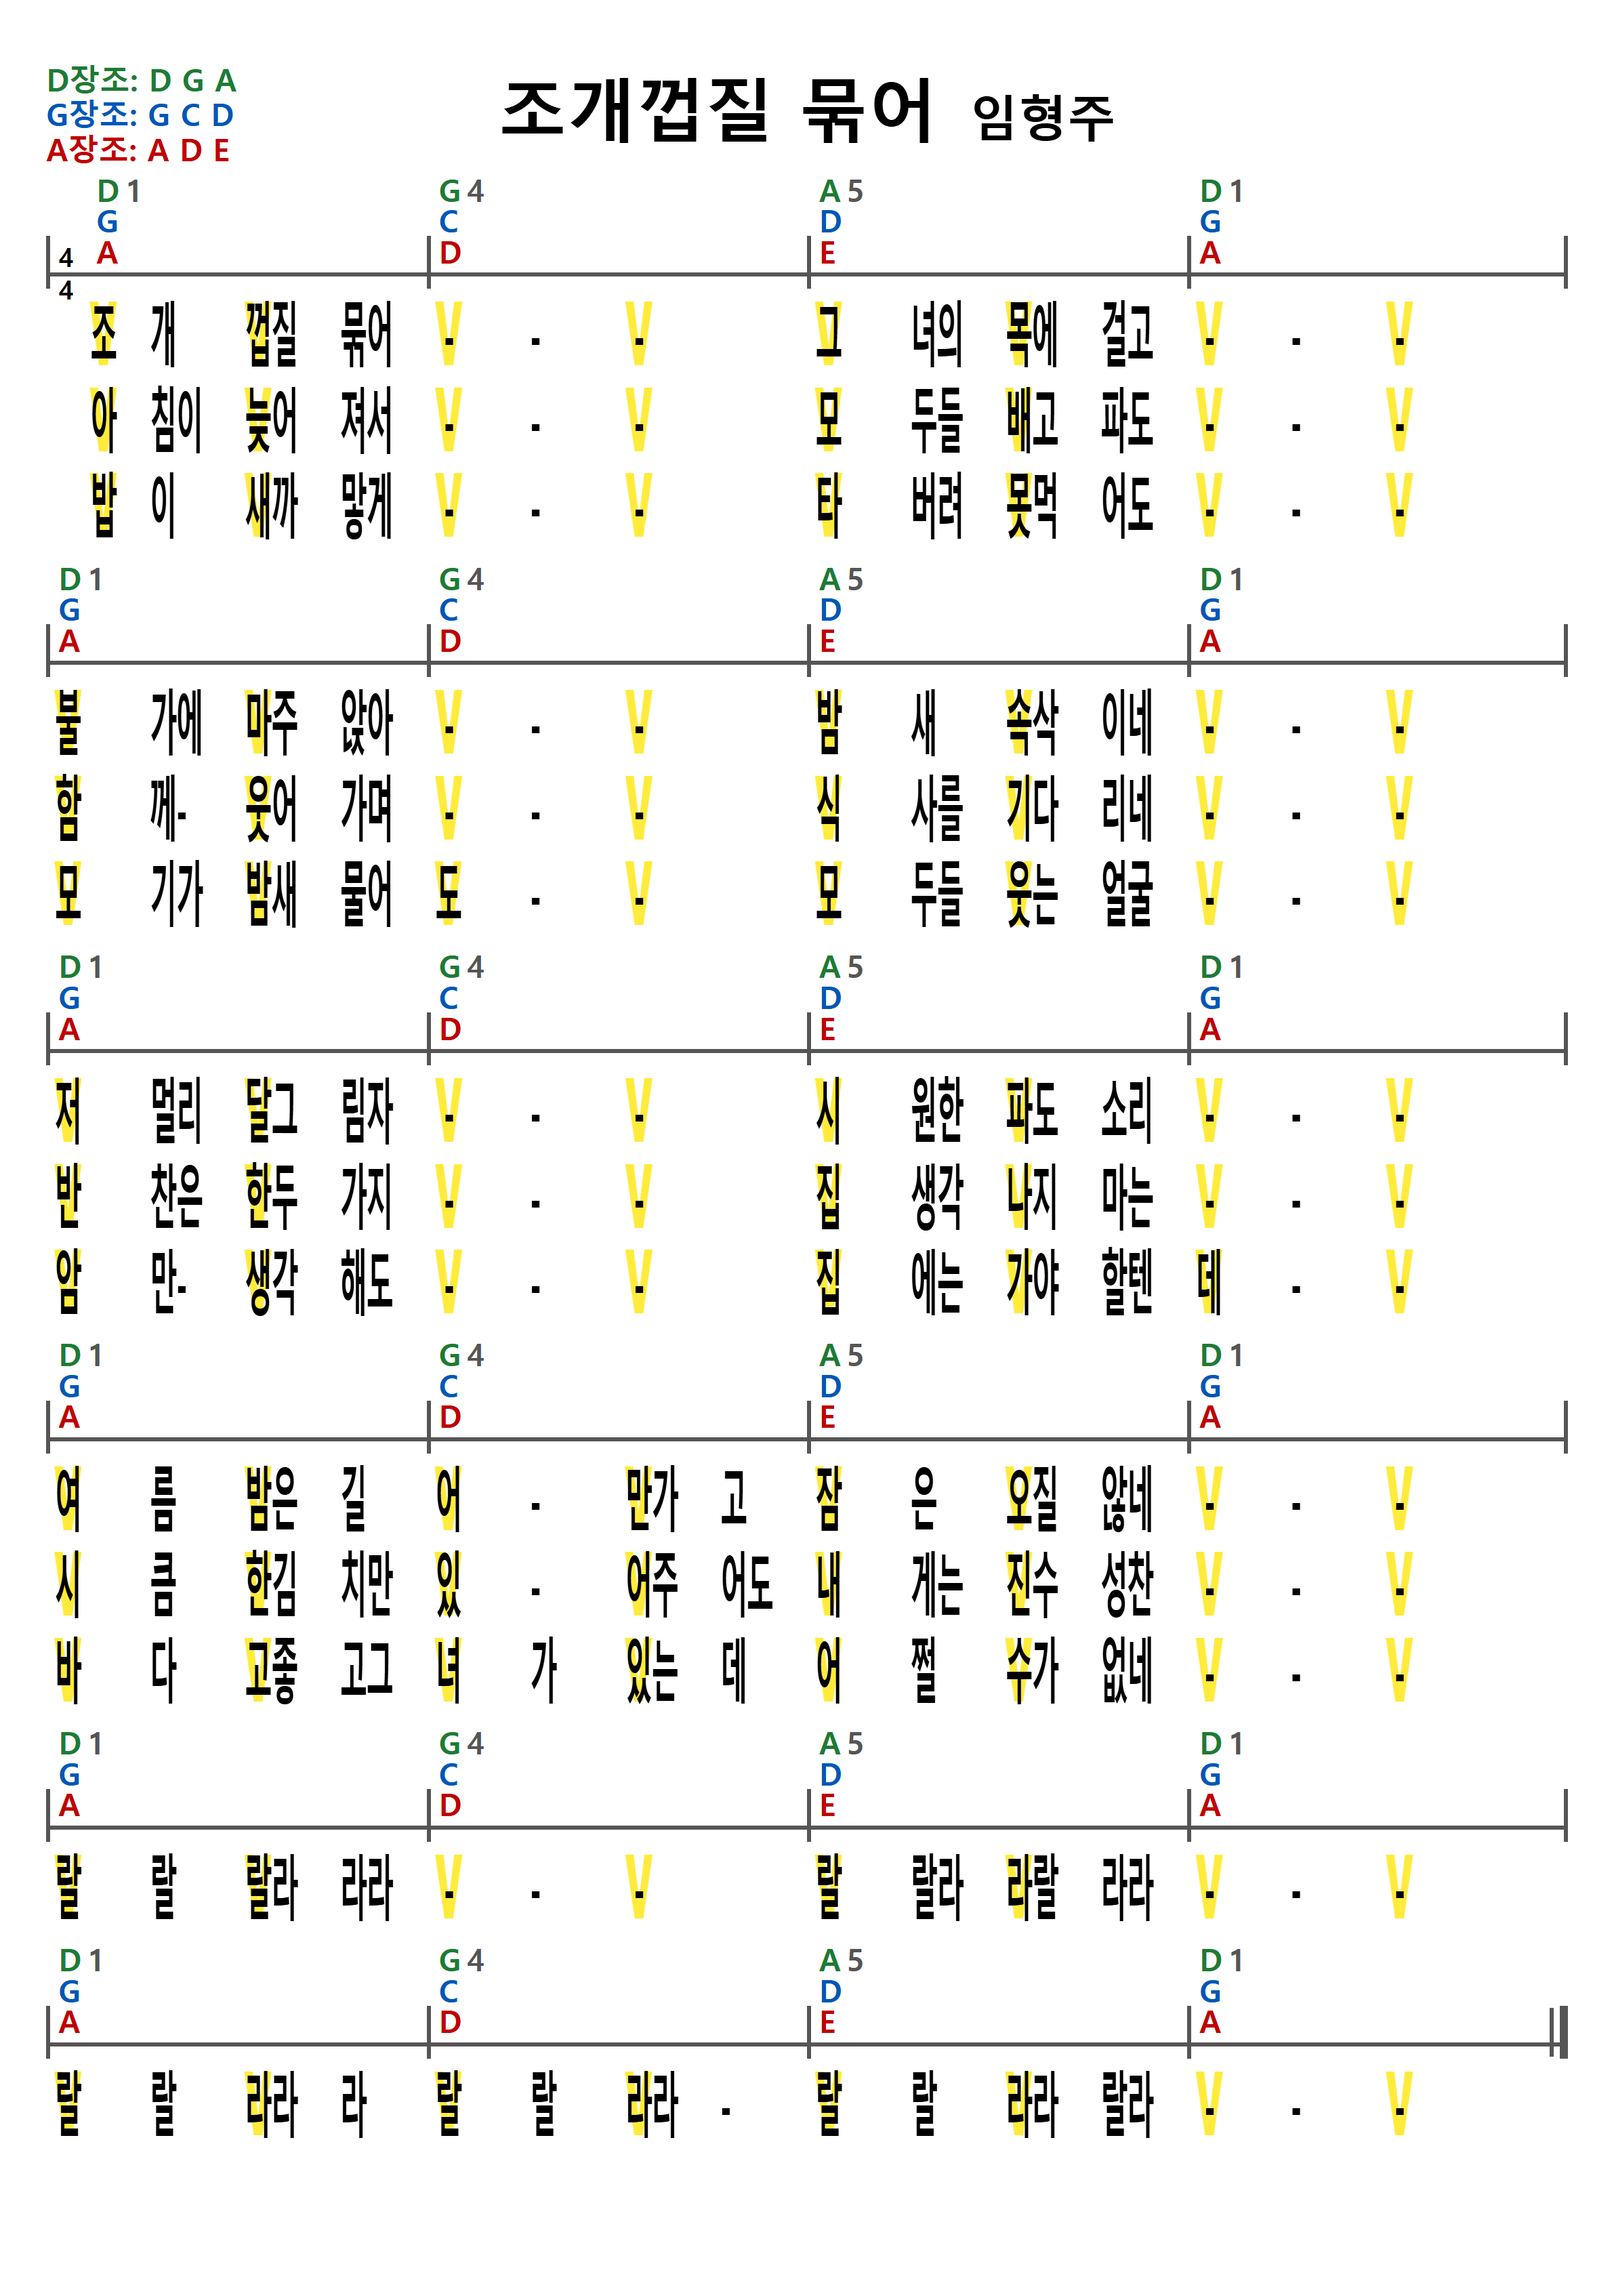
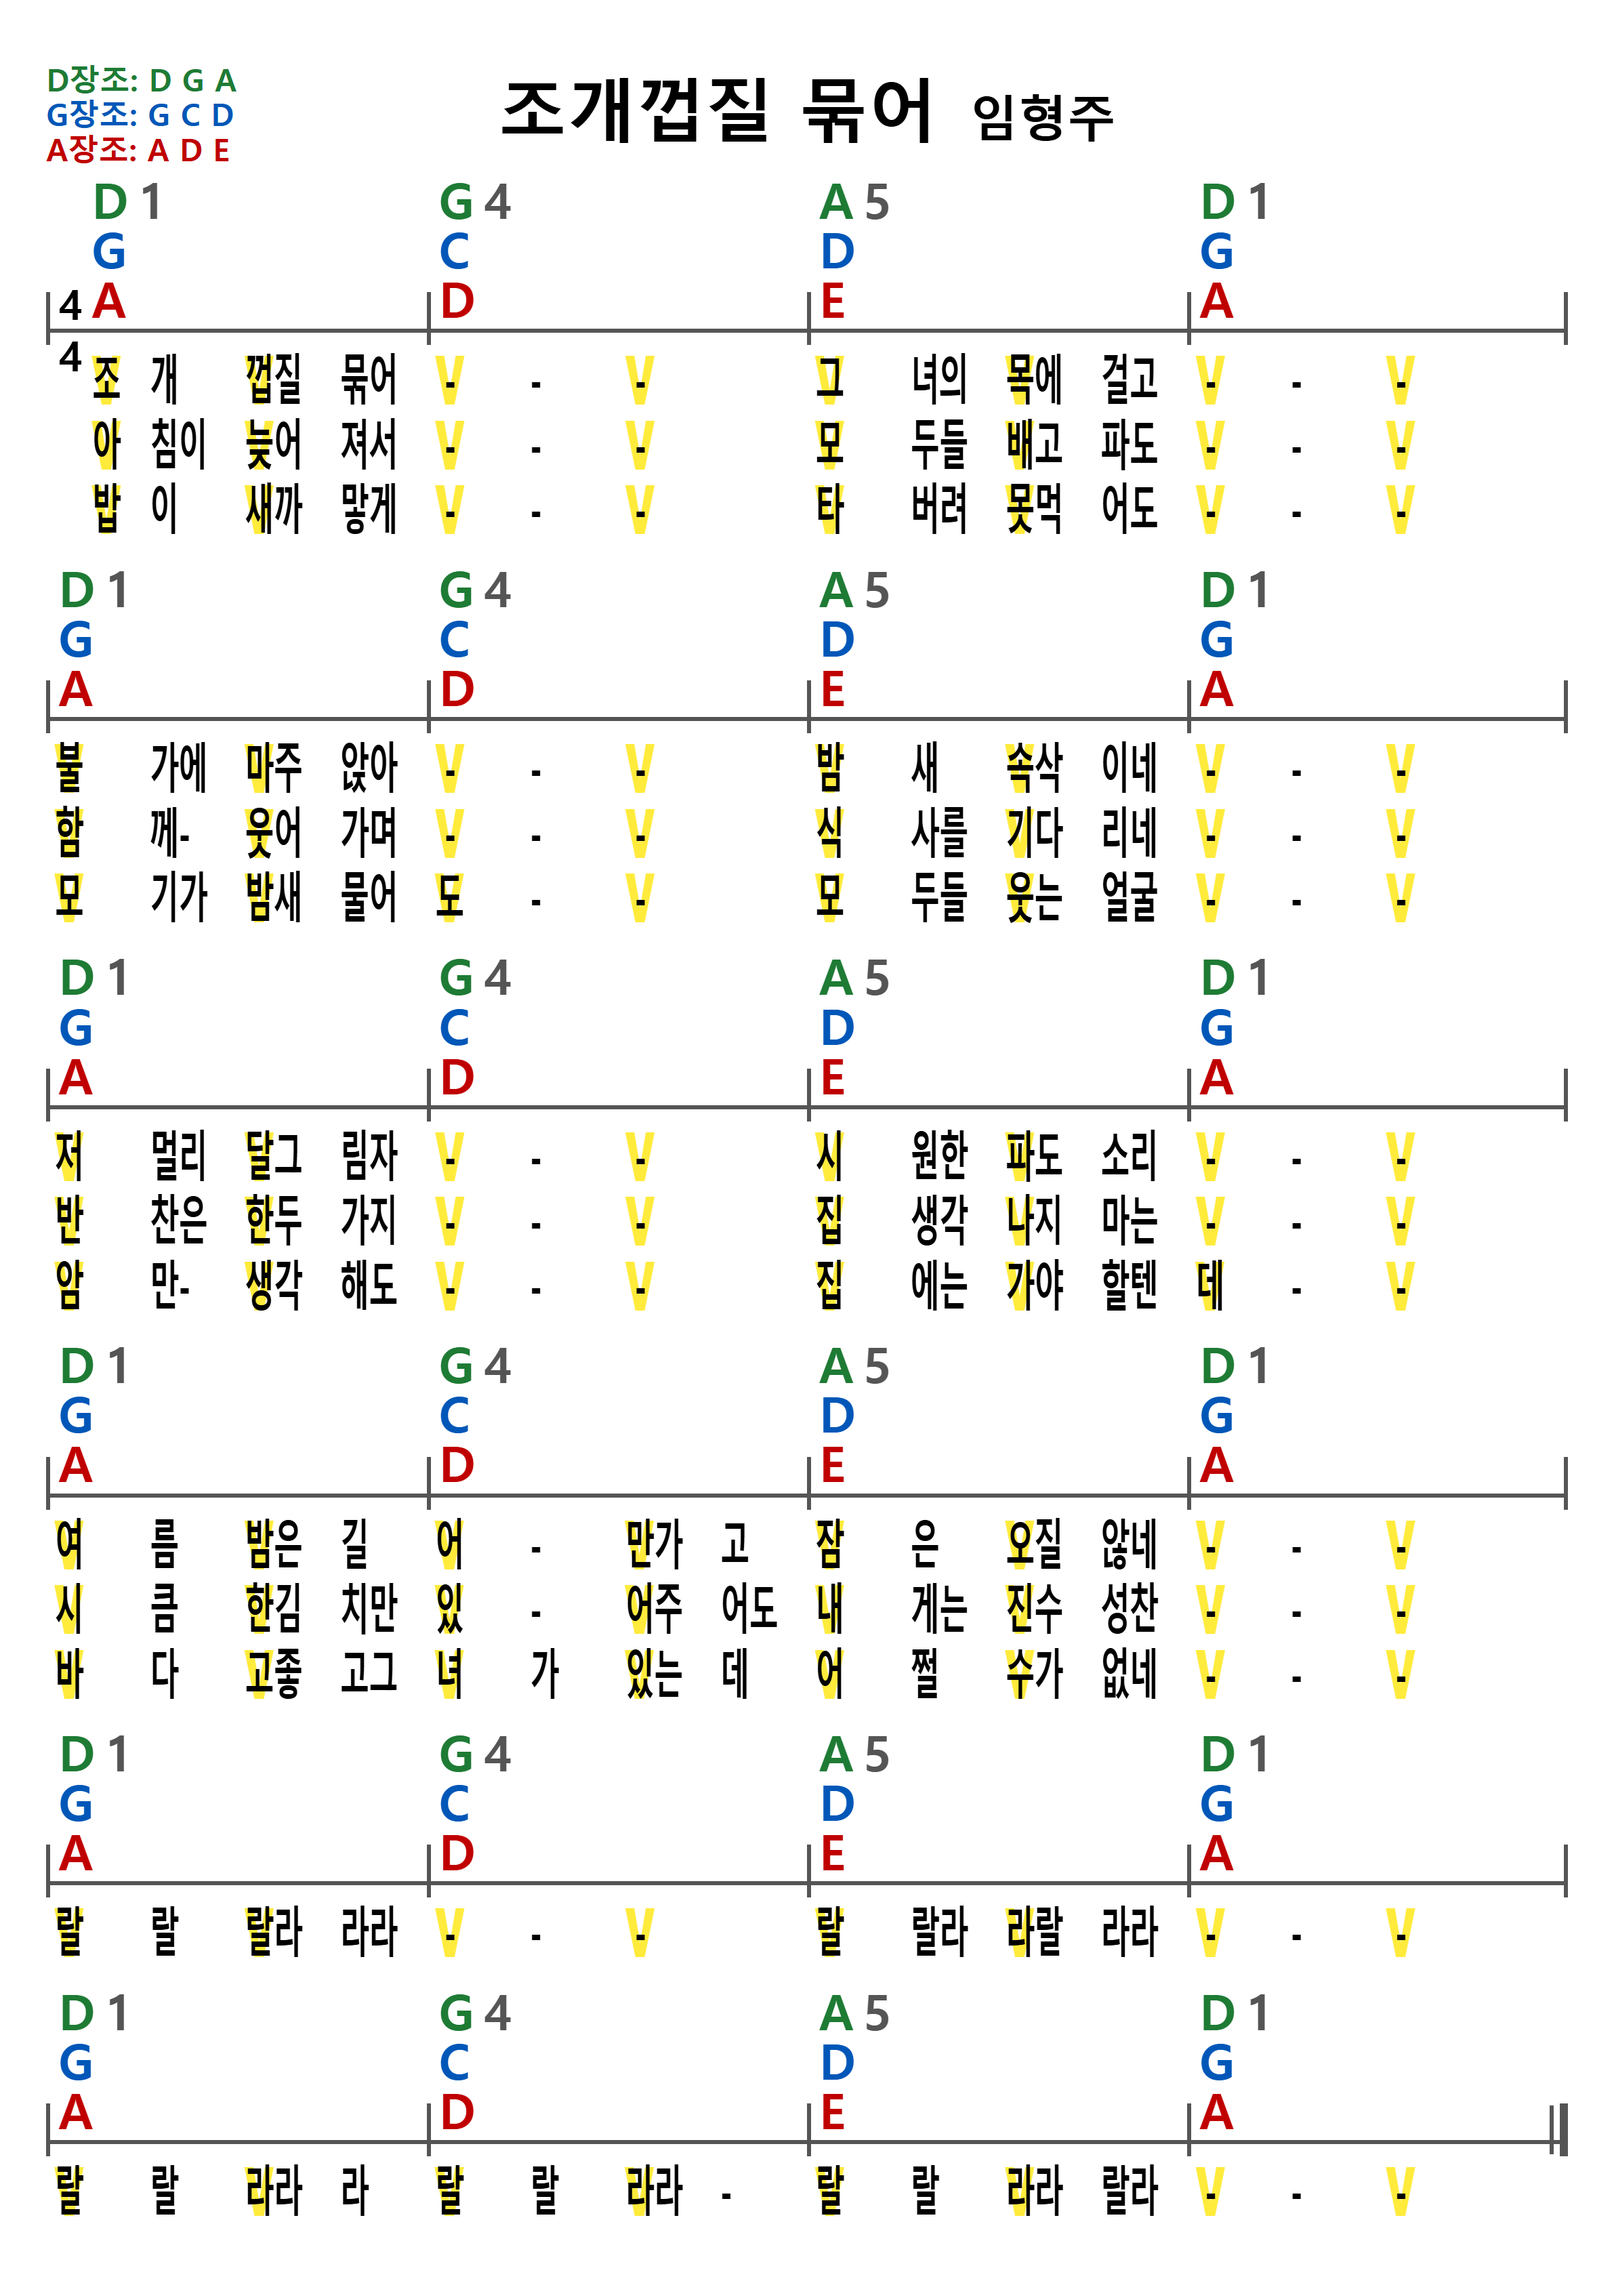
sheet

diff --git a/raw/145_조개껍질묶어_DGA장조.html b/raw/145_조개껍질묶어_DGA장조.html
@@ -19,7 +19,7 @@
   .m { display: flex; min-width: 0; }
   .part { flex: 1; min-width: 0; display: flex; flex-direction: column; }
   .ch { position: relative; border-bottom: 2px solid var(--line); padding: 0 0 3px 6px; }
-  .ch i { display: block; height: calc(var(--ch) * 1.02); font-size: var(--ch); font-style: normal; font-weight: 800; line-height: 1; }
+  .ch i { display: block; height: calc(var(--ch) * 1.02); font-size: var(--ch); font-style: normal; font-weight: 800; line-height: 1; white-space: nowrap; position: relative; z-index: 1; }
   .ch i.a { color: var(--a); }
   .ch i.g { color: var(--g); }
   .ch i.d { color: var(--d); }
@@ -46,7 +46,8 @@
   .ly span { display: inline-block; transform: scaleY(var(--sy, 1)); transform-origin: top; }
   /* 박자표: 마디선 바로 뒤에서 가로줄을 가운데에 두고 위아래로 숫자 표시 */
   .time { position: absolute; left: 6px; top: 100%; transform: translateY(-50%); font-size: calc(var(--ch) * 0.85); font-weight: bold; line-height: 1.25; text-align: center; }
-  .has-time .ch { padding-left: calc(var(--ch) * 0.85 + 12px); }
+  /* 박자표 칸은 가사 크기 기준으로 비켜 줌 (코드를 키워도 첫 칸이 넘치지 않게) */
+  .has-time .ch { padding-left: calc(var(--ly) * 0.7 + 12px); }
   /* 가사 쪽 박자표 자리는 가사 크기 기준 */
   .has-time .lys { padding-left: calc(var(--ly) * 0.7 + 12px); }
 </style>
@@ -164,15 +165,27 @@ function fits(ly, ch) {
   root.setProperty("--ch", ch.toFixed(1) + "px");
   return chEls.every(c => c.scrollWidth <= c.clientWidth) && lyEls.every(l => l.scrollWidth <= l.clientWidth) && page.scrollHeight <= page.clientHeight;
 }
-// 코드가 가사보다 작아지지 않게 코드 크기를 가사의 1.1배로 묶어서 찾음
+// 1) 가사 폭이 마디에 들어가는 가장 큰 글자 크기
+let best = 9;
 for (let ly = 30; ly >= 9; ly -= 0.25) {
-  if (fits(ly, ly * 1.1)) break;
+  if (fits(ly, ly * 1.1)) { best = ly; break; }
 }
-// 가로 폭과 코드 크기는 그대로 두고, 페이지 높이에 맞는 만큼 가사를 세로로 늘림 (최대 3배)
-for (let sy = 3; sy > 1; sy -= 0.05) {
+// 2) 남는 세로 공간을 가사 세로 늘림과 코드 크기에 함께 나눔
+//    가사는 너무 길쭉하지 않게 최대 1.5배까지만 늘리고, 코드는 그만큼 크게(늘어난 가사 높이에 비례)
+//    (높이는 실제 악보 맨 아래 위치로 확인 – 세로로 늘린 글자가 scrollHeight를 부풀려 너무 작게 잡히는 문제 방지)
+const songEl = document.getElementById("song");
+const fitsH = () => songEl.getBoundingClientRect().bottom <= page.getBoundingClientRect().bottom - parseFloat(getComputedStyle(page).paddingBottom);
+for (let sy = 1.8; sy >= 1; sy -= 0.02) {
   root.setProperty("--sy", sy.toFixed(2));
-  if (page.scrollHeight <= page.clientHeight) break;
+  root.setProperty("--ch", (best * sy * 0.9).toFixed(1) + "px");
+  // 코드는 1박 칸에만 있고 옆 박 칸은 비어 있으므로, 코드 글자가 옆 칸으로 넘쳐도 괜찮음 (높이만 확인)
+  if (fitsH()) break;
 }
+// 3) 아래가 비면, 남는 높이를 줄 사이에 고르게 나눠 페이지를 채움
+const rowEls = [...document.querySelectorAll(".row")];
+const pageBottom = page.getBoundingClientRect().bottom - parseFloat(getComputedStyle(page).paddingBottom);
+const free = pageBottom - document.getElementById("song").getBoundingClientRect().bottom - 4;
+if (free > 0) rowEls.forEach(r => r.style.marginBottom = `${parseFloat(getComputedStyle(r).marginBottom) + free / rowEls.length}px`);
 </script>
 </body>
 </html>
